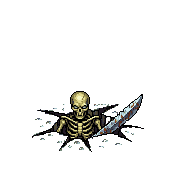
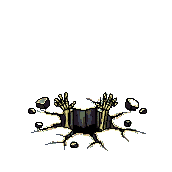
Undead breach: skeleton redone, hands burst out first and it claws its way up
Claude-Session: https://claude.ai/code/session_01QSk71LePzVT1k5KrVgZwDK

Changed region(s): [[0.1453, 0.5233, 0.8721, 0.8721]]

diff --git a/docs/art-review/undead-breach/README.md b/docs/art-review/undead-breach/README.md
@@ -6,11 +6,11 @@ on the battle map**, so the creature that climbs out is the one that then fights
 | Clip | PixelLab character | In-game sprite | Frames | Canvas |
 |---|---|---|---|---|
 | Zombie crawls out of the dirt | `b1088c19-d0e2-4ac9-95ba-d4de40361bbd` | `public/sprites/zombie-rotting` | 21 @ 12 fps (1.75 s), no loop | 168×168 |
-| Skeleton breaks up through stone | `370cb985-bdf2-415d-97a9-38aa0b8a01be` | `public/sprites/skeleton-swordsman` | 21 @ 12 fps, no loop | 172×172 |
+| Skeleton claws up through stone | `370cb985-bdf2-415d-97a9-38aa0b8a01be` | `public/sprites/skeleton-swordsman` | 25 @ 12 fps (2.1 s), no loop | 172×172 |
 
 Choreography follows the production pack Sam supplied (2026-10-29): the zombie's hands come
 first, then the head, then it drags itself flat on its elbows before it gets onto all fours and
-stands. The skeleton's skull breaks through violet-cracked stone and it climbs up out of the rubble.
+stands. The skeleton (round 2, per Sam: "sticking their hands out from the ground and aggressively come out and climbing"): violet cracks split the stone, both bony hands burst up clawing, rocks fly, the skull pushes through, it drags itself out on its elbows and lunges to its feet. `skeleton-swordsman-alt-ledge/` is the calmer alternative (hands grip the rim and it hauls itself out like a ledge). Round 1's slow vertical rise was rejected.
 
 **How they were made.** PixelLab animates from a character's standing pose, so each clip was
 generated as the creature *sinking into* the ground and is played in reverse. The last frame is
@@ -21,5 +21,5 @@ until Sam approves it. Once approved: copy `emerge.png` into the creature's `pub
 add an `emerge` entry to its `sprite.json` (pivot needs re-measuring because the canvas is larger
 than the 128-px idle cell), and teach the renderer to play it once on spawn.
 
-Known nits: the dirt/rubble disappears abruptly once the creature is fully standing; only the
+Known nits: the skeleton's sword is missing while it climbs and appears only as it stands; the dirt/rubble disappears abruptly once the creature is fully standing; only the
 south facing exists so far.
